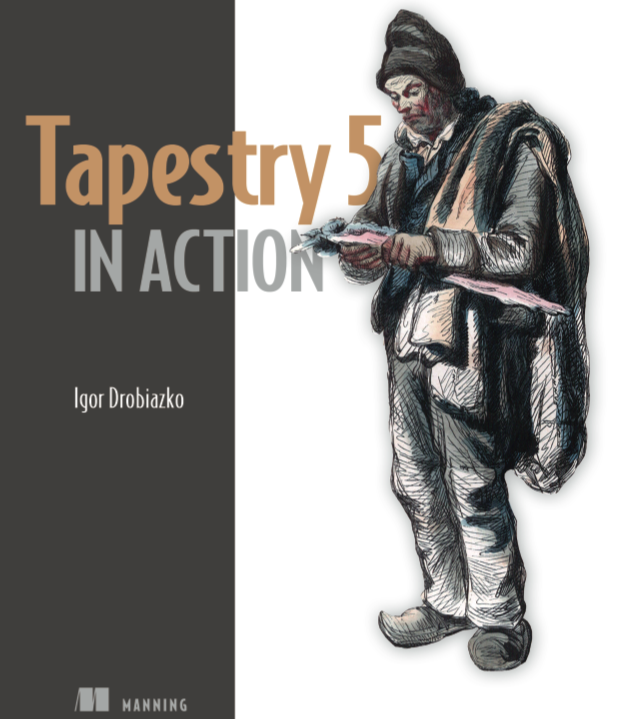
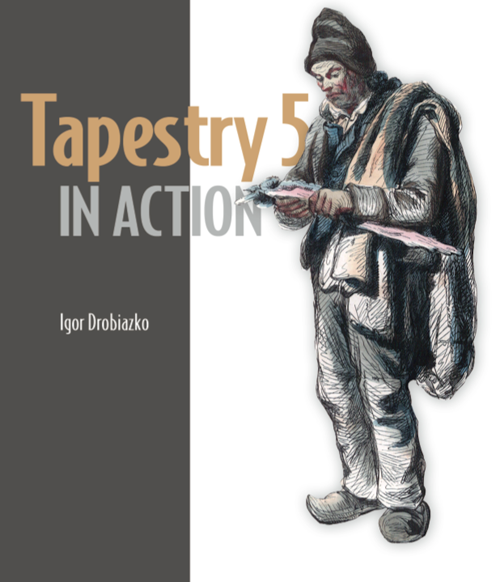
Fixed style

diff --git a/showcase/src/main/webapp/index.css b/showcase/src/main/webapp/index.css
@@ -1,9 +1,18 @@
 body {
-    background-image: url("images/cover.png");
-    background-repeat: no-repeat;
+    background-image: url("images/background.png");
+    background-repeat: repeat-y;
     background-position: right top;
-    background-color: #3F3E3B;
+    background-color: #504F4D;
     color: #ffffff;
+}
+
+
+#cover {
+    position: fixed;
+    top: 0;
+    right: 0;
+    bottom: auto;
+
 }
 
 a {

diff --git a/showcase/src/main/webapp/style.css b/showcase/src/main/webapp/style.css
@@ -1,7 +1,7 @@
 body {
     margin: 10px 200px 10px 10px;
     padding: 10;
-    background-image: url("images/cover.jpg");
+    background-image: url("images/cover_small.jpg");
     background-repeat: no-repeat;
     background-position: right top;
 }
